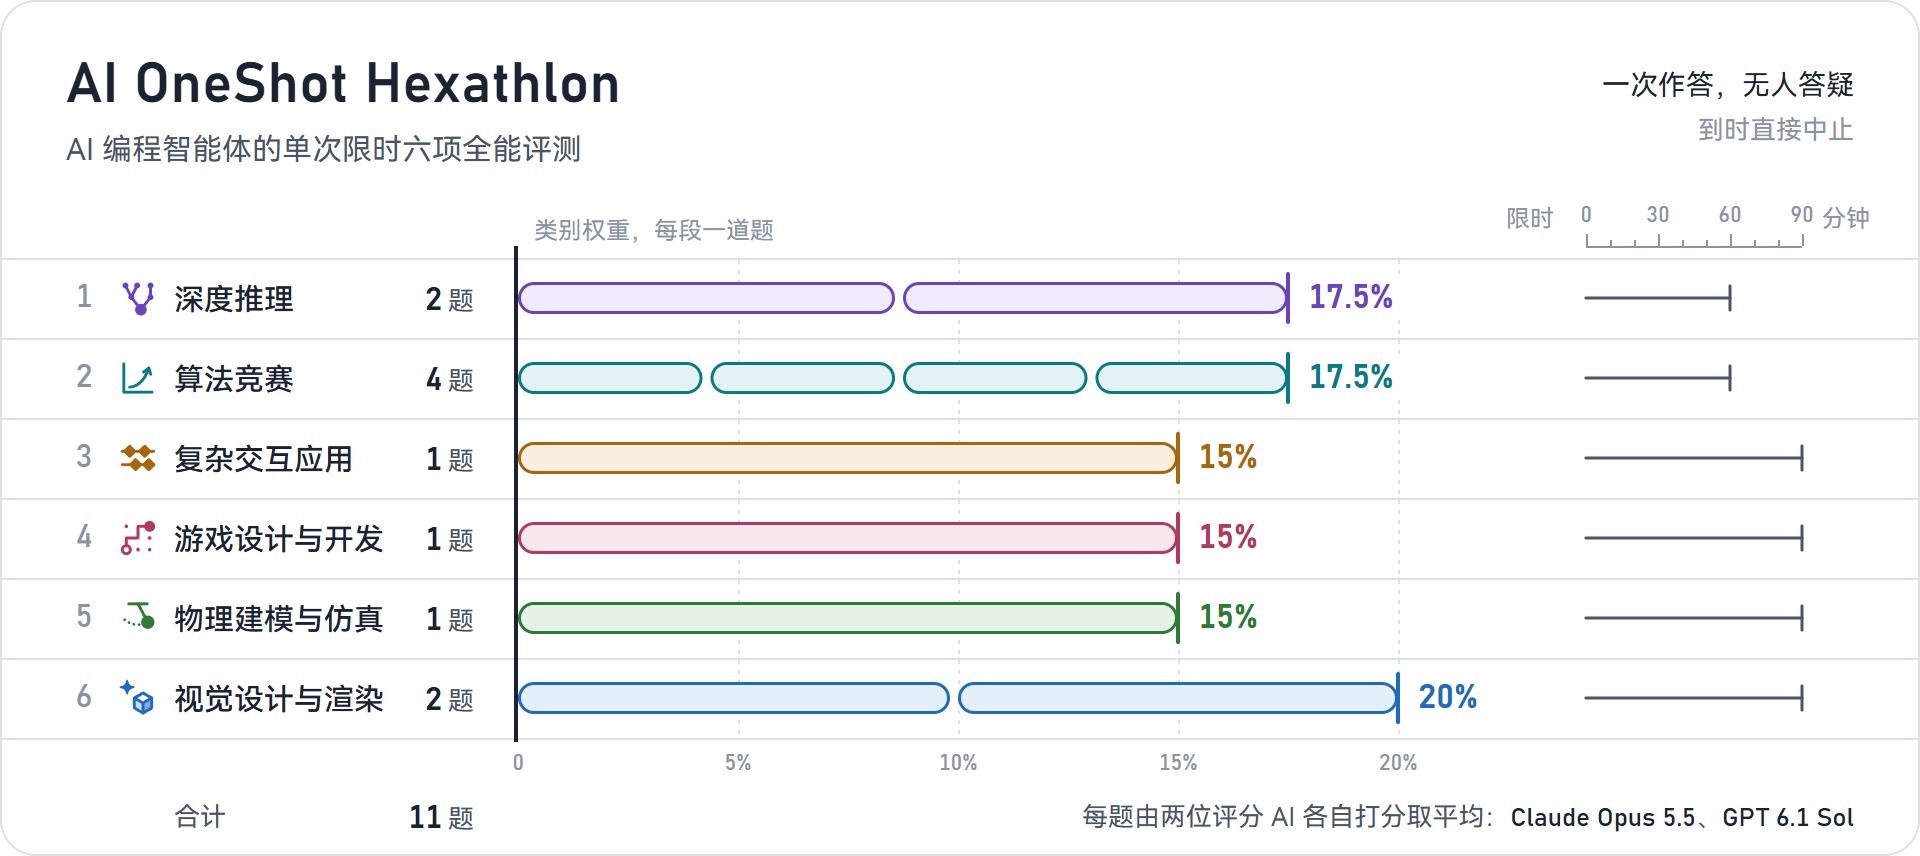
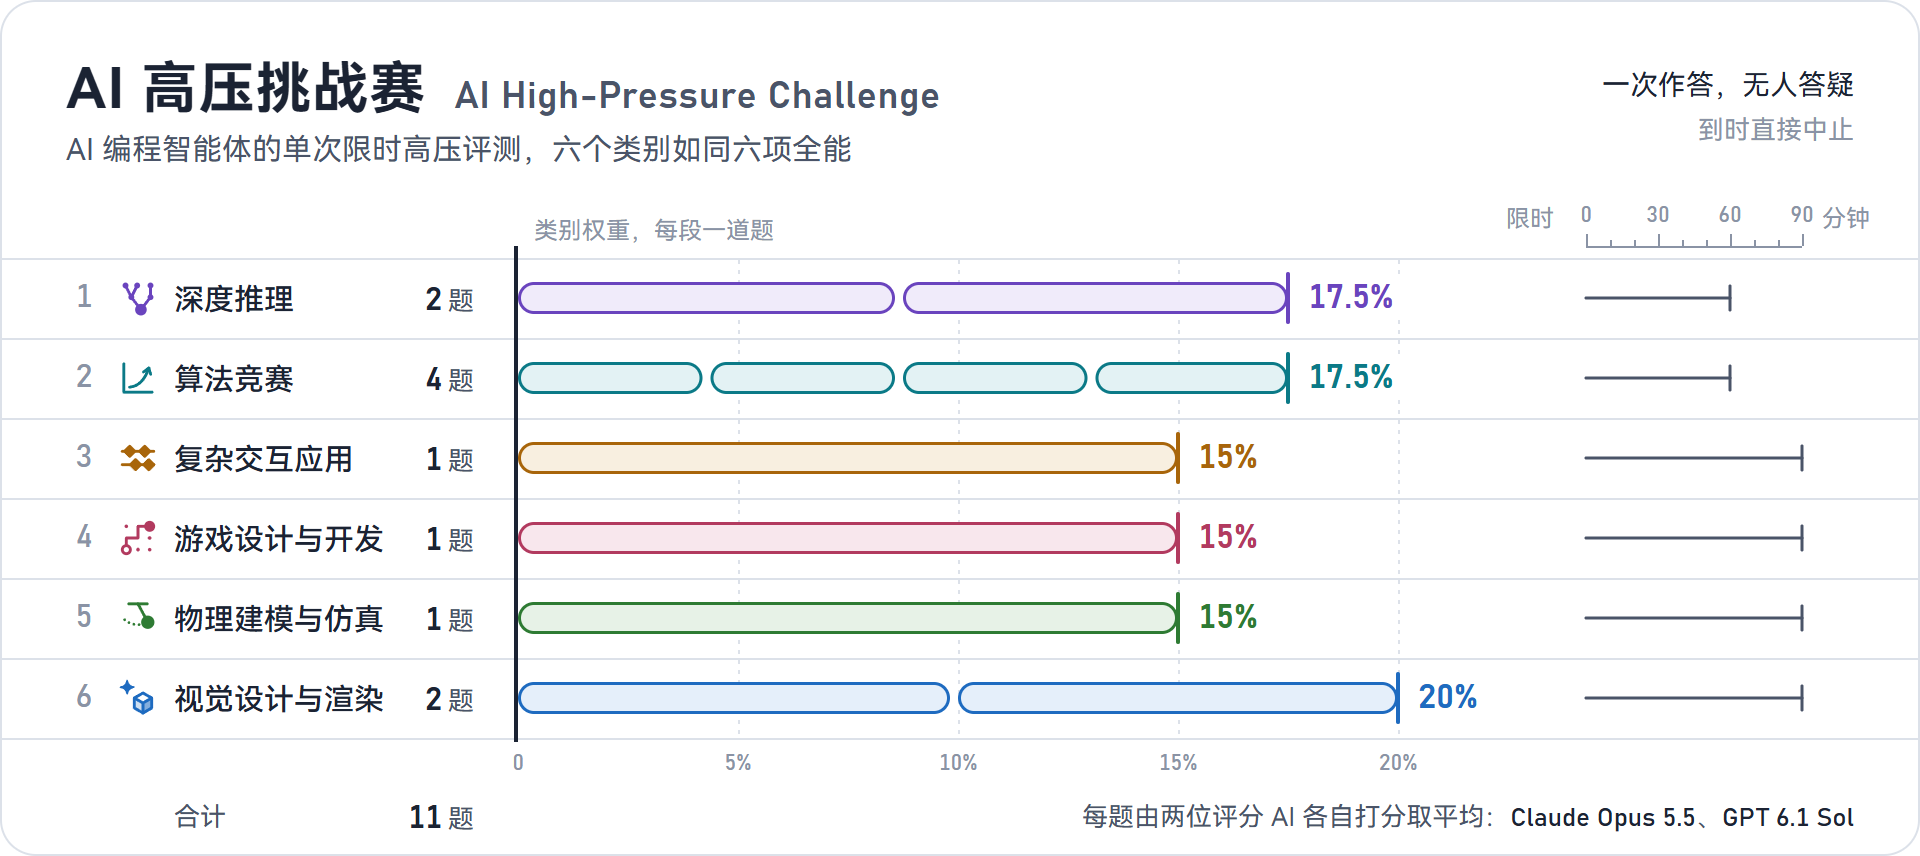
仓库改名为 AI 高压挑战赛：封面图标题、README 简介与目录树同步

Changed region(s): [[0.0312, 0.0607, 0.5, 0.2126]]

diff --git a/assets/readme/src/figs/hero.html b/assets/readme/src/figs/hero.html
@@ -3,14 +3,15 @@
 <head>
 <meta charset="utf-8">
 <meta name="size" content="960x428">
-<title>AI OneShot Hexathlon</title>
+<title>AI 高压挑战赛</title>
 <link rel="stylesheet" href="../tokens.css">
 <style>
   .frame { padding: 0; }
   .abs { position: absolute; white-space: nowrap; }
 
   /* Header: quiet, left-aligned; the track below is the one bold element. */
-  .title { left: 32px; top: 24px; font-family: var(--font-num); font-size: 28px; font-weight: 600; line-height: 36px; letter-spacing: .2px; }
+  .title { left: 32px; top: 24px; font-size: 28px; font-weight: 700; line-height: 36px; letter-spacing: .5px; }
+  .title .en { margin-left: 14px; font-family: var(--font-num); font-size: 19px; font-weight: 500; letter-spacing: .2px; color: var(--ink-2); }
   .sub { left: 32px; top: 62px; font-size: 15px; line-height: 22px; color: var(--ink-2); }
   .rule { right: 32px; top: 30px; text-align: right; font-size: 14px; line-height: 22px; }
   .rule .faint { font-size: 13px; }
@@ -33,8 +34,8 @@
 <div class="frame" id="f">
   <svg id="track" class="abs" style="left:0;top:0" width="960" height="428"></svg>
 
-  <div class="abs title">AI OneShot Hexathlon</div>
-  <div class="abs sub">AI 编程智能体的单次限时六项全能评测</div>
+  <div class="abs title">AI 高压挑战赛<span class="en">AI High-Pressure Challenge</span></div>
+  <div class="abs sub">AI 编程智能体的单次限时高压评测，六个类别如同六项全能</div>
   <div class="abs rule">一次作答，无人答疑<br><span class="faint">到时直接中止</span></div>
 </div>
 

diff --git a/assets/readme/src/tokens.css b/assets/readme/src/tokens.css
@@ -1,4 +1,4 @@
-/* AI OneShot Hexathlon README figures: one shared token set. Every figure links this file and uses only these tokens. */
+/* AI 高压挑战赛 README figures: one shared token set. Every figure links this file and uses only these tokens. */
 
 /* Type: HarmonyOS Sans SC for Chinese, Bahnschrift (DIN-like, scoreboard feel) for numerals and Latin titles. */
 @font-face { font-family: "HX Sans"; src: local("HarmonyOS Sans SC"), local("HarmonyOS_Sans_SC_Regular"); font-weight: 400; }

diff --git a/README.md b/README.md
@@ -1,4 +1,4 @@
-<p align="center"><img src="assets/readme/hero.png" width="100%" alt="AI OneShot Hexathlon：AI 编程智能体的单次限时六项全能评测"></p>
+<p align="center"><img src="assets/readme/hero.png" width="100%" alt="AI 高压挑战赛（AI High-Pressure Challenge）：AI 编程智能体的单次限时高压评测"></p>
 
 <p align="center">一次机会，限时作答，无人答疑：11 道题、6 个类别，看 AI 编程智能体能否独立交付完整、正确、出色的作品。</p>
 
@@ -16,7 +16,7 @@
 
 ## 项目简介
 
-AI OneShot Hexathlon 是一套给 AI 编程智能体做的单次限时评测。受测模型通过自己的智能体工具，在 60 或 90 分钟内独立完成一道题：期间没有人回答问题，到时直接中止，也没有第二次机会。11 道题分属深度推理、算法竞赛、复杂交互应用、游戏设计与开发、物理建模与仿真、视觉设计与渲染 6 个类别，从 Lean 形式化证明、竞赛数学、极值构造、性能优化，一直到整件网页作品的设计与开发。每道题由两位评分 AI 按题面的评分标准各自打分、取平均，折算成 0–100 分后按权重汇总为模型总分。
+AI 高压挑战赛（AI High-Pressure Challenge）是一套给 AI 编程智能体做的单次限时评测。受测模型通过自己的智能体工具，在 60 或 90 分钟内独立完成一道题：期间没有人回答问题，到时直接中止，也没有第二次机会。11 道题分属深度推理、算法竞赛、复杂交互应用、游戏设计与开发、物理建模与仿真、视觉设计与渲染 6 个类别，从 Lean 形式化证明、竞赛数学、极值构造、性能优化，一直到整件网页作品的设计与开发。每道题由两位评分 AI 按题面的评分标准各自打分、取平均，折算成 0–100 分后按权重汇总为模型总分。
 
 ## 题目总览
 
@@ -562,7 +562,7 @@ $$\text{得分}=\text{分值}\times\text{完成份额}\times\text{做得多好}$
 题面按类别放在各文件夹里，评分资料集中在 `Grading/`，说明见 [`Grading/README.md`](Grading/README.md)。
 
 ```text
-AI-OneShot-Hexathlon/
+AI-High-Pressure-Challenge/
 ├─ README.md
 ├─ assets/readme/                               README 的配图和类别图标，src/ 为设计源文件
 ├─ 深度推理/                                   题面：每题一个 .md
